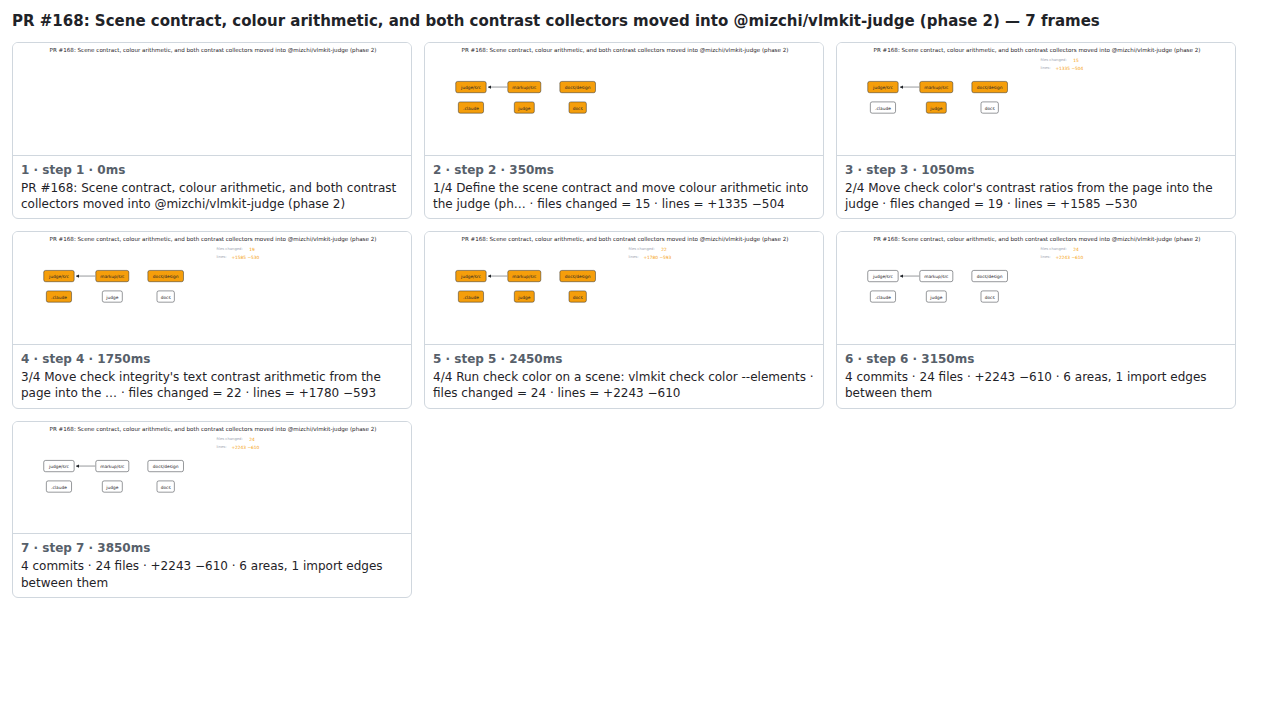
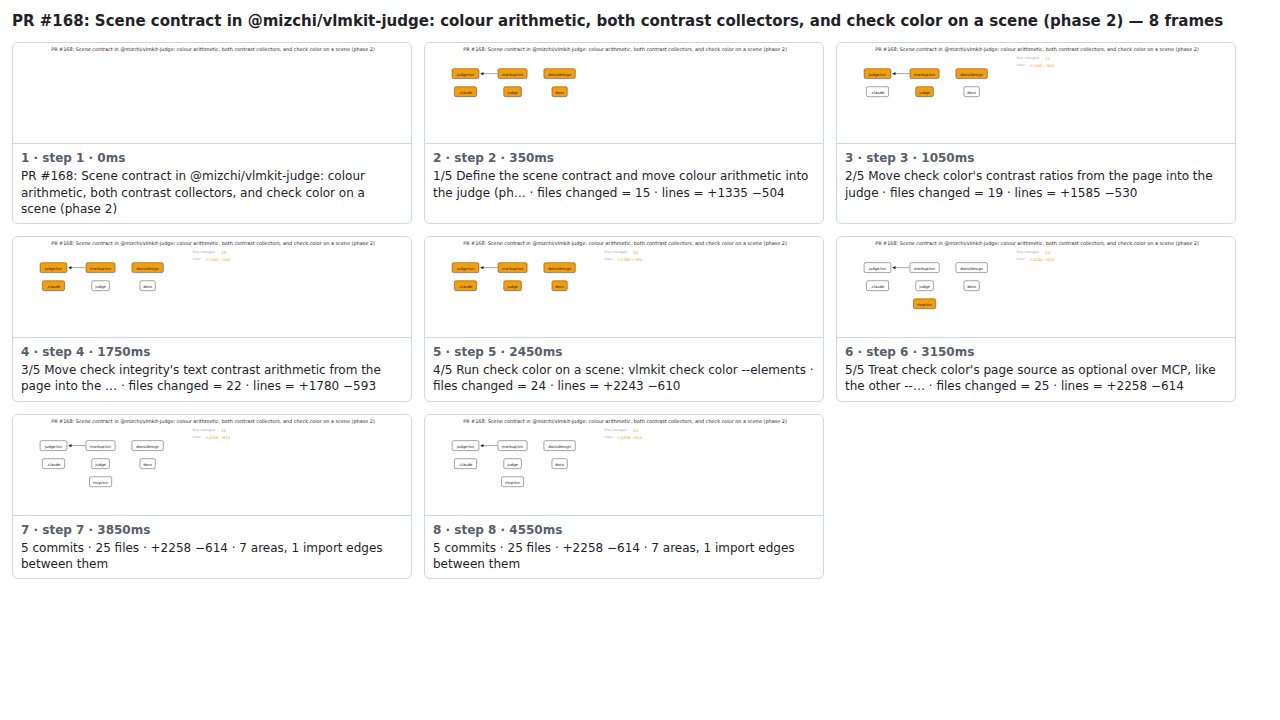
PR #168 @ b3ca9a6

diff --git a/168/change-map.md b/168/change-map.md
@@ -1,20 +1,21 @@
-## PR #168: Scene contract, colour arithmetic, and both contrast collectors moved into @mizchi/vlmkit-judge (phase 2)
+## PR #168: Scene contract in @mizchi/vlmkit-judge: colour arithmetic, both contrast collectors, and check color on a scene (phase 2)
 
-![PR #168: Scene contract, colour arithmetic, and both contrast collectors moved into @mizchi/vlmkit-judge (phase 2)](./change-map.gif)
+![PR #168: Scene contract in @mizchi/vlmkit-judge: colour arithmetic, both contrast collectors, and check color on a scene (phase 2)](./change-map.gif)
 
 <details><summary>Every step</summary>
 
 ![steps](./change-map.sheet.png)
 
 ```
-PR #168: Scene contract, colour arithmetic, and both contrast collectors moved into @mizchi/vlmkit-judge (phase 2) — 7 steps, 4060ms, 13 nodes
- 1. [    0ms] PR #168: Scene contract, colour arithmetic, and both contrast collectors moved into @mizchi/vlmkit-judge (phase 2)
- 2. [  350ms] 1/4 Define the scene contract and move colour arithmetic into the judge (ph… · files changed = 15 · lines = +1335 −504
- 3. [ 1050ms] 2/4 Move check color's contrast ratios from the page into the judge · files changed = 19 · lines = +1585 −530
- 4. [ 1750ms] 3/4 Move check integrity's text contrast arithmetic from the page into the … · files changed = 22 · lines = +1780 −593
- 5. [ 2450ms] 4/4 Run check color on a scene: vlmkit check color --elements · files changed = 24 · lines = +2243 −610
- 6. [ 3150ms] 4 commits · 24 files · +2243 −610 · 6 areas, 1 import edges between them
- 7. [ 3850ms] (end)
+PR #168: Scene contract in @mizchi/vlmkit-judge: colour arithmetic, both contrast collectors, and check color on a scene (phase 2) — 8 steps, 4760ms, 14 nodes
+ 1. [    0ms] PR #168: Scene contract in @mizchi/vlmkit-judge: colour arithmetic, both contrast collectors, and check color on a scene (phase 2)
+ 2. [  350ms] 1/5 Define the scene contract and move colour arithmetic into the judge (ph… · files changed = 15 · lines = +1335 −504
+ 3. [ 1050ms] 2/5 Move check color's contrast ratios from the page into the judge · files changed = 19 · lines = +1585 −530
+ 4. [ 1750ms] 3/5 Move check integrity's text contrast arithmetic from the page into the … · files changed = 22 · lines = +1780 −593
+ 5. [ 2450ms] 4/5 Run check color on a scene: vlmkit check color --elements · files changed = 24 · lines = +2243 −610
+ 6. [ 3150ms] 5/5 Treat check color's page source as optional over MCP, like the other --… · files changed = 25 · lines = +2258 −614
+ 7. [ 3850ms] 5 commits · 25 files · +2258 −614 · 7 areas, 1 import edges between them
+ 8. [ 4550ms] (end)
 ```
 
 </details>
